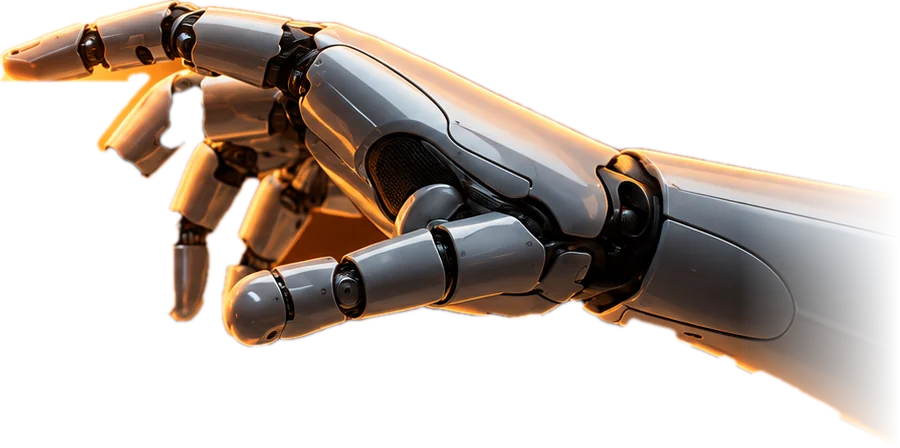
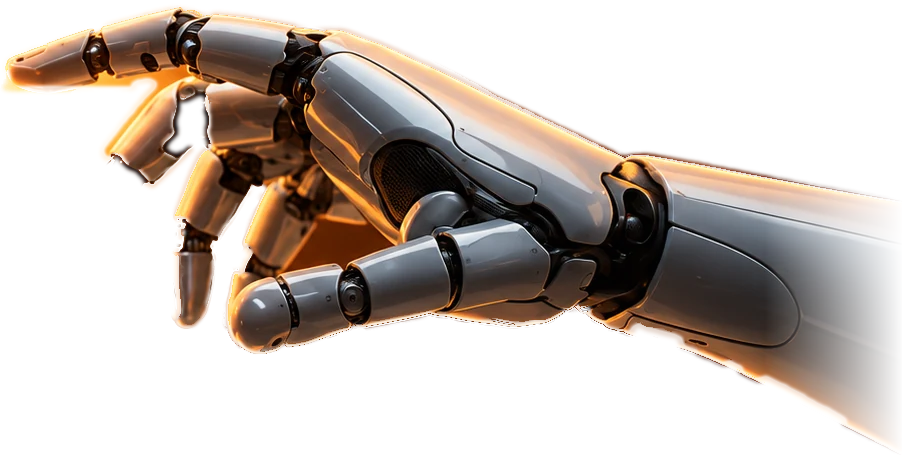
What we do: cleaner hand cut-outs from the new image, smaller round glow
Claude-Session: https://claude.ai/code/session_015sKVjkfE5PUpmXATrUziLx

diff --git a/index.html b/index.html
@@ -152,14 +152,13 @@ h2.title{font-family:var(--display);font-size:clamp(32px,4.4vw,56px);font-weight
 /* what we do: human and robot hands reach for each other in 3D as you scroll */
 .services .head{position:relative;z-index:2}
 .services.light{--paper:#141414}
-.touch .glowband{position:absolute;z-index:0;left:0;top:4.7%;width:100%;height:auto;max-width:none;transform:scale(calc(.85 + var(--p) * .15));opacity:calc(var(--p) * var(--p))}
 .touch{position:relative;margin:clamp(-8px,-1vw,0px) calc(50% - 50vw) clamp(8px,2vw,28px);perspective:1100px;perspective-origin:50% 40%;pointer-events:none;--p:0}
-.touch .tstage{position:relative;z-index:1;width:100%;aspect-ratio:1672/470;transform-style:preserve-3d;transform:rotateX(var(--tx,0deg)) rotateY(var(--ty,0deg));transition:transform .4s ease-out}
+.touch .tstage{position:relative;z-index:1;width:100%;aspect-ratio:1672/455;transform-style:preserve-3d;transform:rotateX(var(--tx,0deg)) rotateY(var(--ty,0deg));transition:transform .4s ease-out}
 .touch .hand{position:absolute;display:block;height:auto;max-width:none;will-change:transform,opacity;backface-visibility:hidden}
-.touch .human{left:0;top:5.3%;width:43.8%;transform-origin:0% 50%;transform:translate3d(calc((1 - var(--p)) * -46vw),calc((1 - var(--p)) * 60px),calc((1 - var(--p)) * -420px)) rotateY(calc((1 - var(--p)) * 38deg)) rotateZ(calc((1 - var(--p)) * -7deg));opacity:calc(.15 + var(--p) * .85)}
-.touch .robot{left:46.2%;top:6.6%;width:53.8%;transform-origin:100% 50%;transform:translate3d(calc((1 - var(--p)) * 46vw),calc((1 - var(--p)) * 60px),calc((1 - var(--p)) * -420px)) rotateY(calc((1 - var(--p)) * -38deg)) rotateZ(calc((1 - var(--p)) * 7deg));opacity:calc(.15 + var(--p) * .85)}
-.touch .spark{position:absolute;left:45.3%;top:20%;width:22%;aspect-ratio:1;transform:translate(-50%,-50%) scale(calc(.4 + var(--p) * .6));border-radius:50%;background:radial-gradient(circle,rgba(255,170,60,.55) 0%,rgba(242,68,5,.32) 22%,rgba(242,68,5,.1) 45%,rgba(242,68,5,0) 68%);opacity:calc(var(--p) * var(--p) * var(--p));filter:blur(6px)}
-.touch .core{position:absolute;left:45.3%;top:18%;width:3.2%;aspect-ratio:1;transform:translate(-50%,-50%) translateZ(40px);border-radius:50%;background:radial-gradient(circle,#FFF4DC 0%,rgba(255,190,90,.9) 30%,rgba(242,68,5,0) 70%);opacity:0}
+.touch .human{left:.18%;top:0;width:43.9%;transform-origin:0% 50%;transform:translate3d(calc((1 - var(--p)) * -46vw),calc((1 - var(--p)) * 60px),calc((1 - var(--p)) * -420px)) rotateY(calc((1 - var(--p)) * 38deg)) rotateZ(calc((1 - var(--p)) * -7deg));opacity:calc(.15 + var(--p) * .85)}
+.touch .robot{left:45.87%;top:0;width:53.95%;transform-origin:100% 50%;transform:translate3d(calc((1 - var(--p)) * 46vw),calc((1 - var(--p)) * 60px),calc((1 - var(--p)) * -420px)) rotateY(calc((1 - var(--p)) * -38deg)) rotateZ(calc((1 - var(--p)) * 7deg));opacity:calc(.15 + var(--p) * .85)}
+.touch .spark{position:absolute;z-index:-1;left:45.1%;top:6%;width:24%;aspect-ratio:1;transform:translate(-50%,-50%) scale(calc(.5 + var(--p) * .5));border-radius:50%;background:radial-gradient(circle,rgba(255,176,70,.55) 0%,rgba(242,68,5,.32) 26%,rgba(242,68,5,.1) 48%,rgba(242,68,5,0) 70%);opacity:calc(var(--p) * var(--p));filter:blur(8px)}
+.touch .core{position:absolute;left:45.1%;top:10.5%;width:3.2%;aspect-ratio:1;transform:translate(-50%,-50%) translateZ(40px);border-radius:50%;background:radial-gradient(circle,#FFF4DC 0%,rgba(255,190,90,.9) 30%,rgba(242,68,5,0) 70%);opacity:0}
 .touch.lit .core{animation:touchPulse 2.4s ease-in-out infinite}
 @keyframes touchPulse{0%,100%{opacity:.55;transform:translate(-50%,-50%) translateZ(40px) scale(.8)}50%{opacity:1;transform:translate(-50%,-50%) translateZ(40px) scale(1.25)}}
 @media (prefers-reduced-motion:reduce){.touch{--p:1}.touch .tstage{transition:none}.touch.lit .core{animation:none;opacity:.8}}
@@ -397,7 +396,7 @@ dialog .close{position:absolute;top:14px;right:14px;width:40px;height:40px;borde
 
 <section id="services" class="band services light"><div class="wrap">
   <div class="head reveal"><div><p class="eyebrow">What we do</p><h2 class="title">Three disciplines, one creative team.</h2></div></div>
-  <div class="touch" id="touch" aria-hidden="true"><img class="glowband" src="img/hands_glow.webp" alt="" width="1672" height="458" loading="lazy" decoding="async"><div class="tstage" id="touchStage"><span class="spark"></span><img class="hand human" src="img/hand_human.webp" alt="" width="732" height="335" loading="lazy" decoding="async"><img class="hand robot" src="img/hand_robot.webp" alt="" width="900" height="448" loading="lazy" decoding="async"><span class="core"></span></div></div>
+  <div class="touch" id="touch" aria-hidden="true"><div class="tstage" id="touchStage"><span class="spark"></span><img class="hand human" src="img/hand_human.webp" alt="" width="734" height="455" loading="lazy" decoding="async"><img class="hand robot" src="img/hand_robot.webp" alt="" width="902" height="455" loading="lazy" decoding="async"><span class="core"></span></div></div>
   <div class="cards reveal"><div class="card"><p class="num">01</p><h3>Branding &amp; Identity</h3><ul><li>Logo design</li><li>Brand identity &amp; guidelines</li><li>Packaging design</li><li>Brochures &amp; business cards</li><li>Posters &amp; flyers</li></ul><a class="more" href="#branding">See brand identities <span aria-hidden="true">→</span></a></div><div class="card"><p class="num">02</p><h3>Content &amp; Production</h3><ul><li>Photography</li><li>Videography</li><li>Reels &amp; video editing</li><li>AI-powered ads &amp; reels</li><li>Art direction on set</li></ul><a class="more" href="#ai">See AI-powered ads <span aria-hidden="true">→</span></a></div><div class="card"><p class="num">03</p><h3>Digital &amp; Social</h3><ul><li>Social media management</li><li>Content creation &amp; posting schedule</li><li>Instagram post &amp; reel design</li><li>Web design &amp; UX/UI</li><li>Presentation design</li></ul><a class="more" href="#social">See social media feeds <span aria-hidden="true">→</span></a></div><div class="lights" id="svcLights" aria-hidden="true"><i></i><i></i><i></i></div></div>
 </div></section>
 
